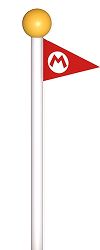
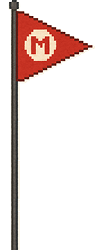
Updated sprites.

Changed region(s): [[0.09, 0.0, 1.0, 1.0]]

diff --git a/scripts/enemies.js b/scripts/enemies.js
@@ -3,10 +3,10 @@ import { Block, marioDeath } from "./block.js";
 let Goombas = [];
 
 export class Goomba extends Block {
-    constructor(position, game) {
+    constructor(position, game, direction) {
         super(position, game);
         this.type = 'goomba';
-        this.direction = 'Right';
+        this.direction =  direction;
         this.image = document.getElementById('mario-goomba-left');
         this.speed = 0.005;
         this.status = true;
@@ -28,7 +28,7 @@ export class Goomba extends Block {
 
         const availableBlocks = this.game.Walls;
         availableBlocks.forEach((wall) => {
-            if (!wall.detectCollision(this)) {
+            if (!wall.detectCollision(this) && this.x <= 1500) {
                 this.x += this.direction === 'Left' ? -this.speed : this.speed;
             }
             else {
@@ -75,14 +75,14 @@ export class Goomba extends Block {
 }
 
 export function getGoombas(game) {
-    Goombas.push(new Goomba({ x: game.player.width * 8, y: game.height - game.grassHeight - game.BLOCK_SIZE }, game));
-    Goombas.push(new Goomba({ x: game.player.width * 16, y: game.height - game.grassHeight - game.BLOCK_SIZE }, game));
-    Goombas.push(new Goomba({ x: game.player.width * 28, y: game.height - game.grassHeight - game.BLOCK_SIZE }, game));
-    Goombas.push(new Goomba({ x: game.player.width * 36, y: game.height - game.grassHeight - game.BLOCK_SIZE }, game));
-    Goombas.push(new Goomba({ x: game.player.width * 44, y: game.height - game.grassHeight - game.BLOCK_SIZE }, game));
-    Goombas.push(new Goomba({ x: game.player.width * 66, y: game.height - game.grassHeight - game.BLOCK_SIZE }, game));
-    Goombas.push(new Goomba({ x: game.player.width * 100, y: game.height - game.grassHeight - game.BLOCK_SIZE }, game));
-    Goombas.push(new Goomba({ x: game.player.width * 105, y: game.height - game.grassHeight - game.BLOCK_SIZE }, game));
+    Goombas.push(new Goomba({ x: game.player.width * 8, y: game.height - game.grassHeight - game.BLOCK_SIZE }, game, 'Left'));
+    Goombas.push(new Goomba({ x: game.player.width * 22, y: game.height - game.grassHeight - game.BLOCK_SIZE }, game, 'Right'));
+    Goombas.push(new Goomba({ x: game.player.width * 30, y: game.height - game.grassHeight - game.BLOCK_SIZE }, game, 'Right'));
+    Goombas.push(new Goomba({ x: game.player.width * 38, y: game.height - game.grassHeight - game.BLOCK_SIZE }, game, 'Right'));
+    Goombas.push(new Goomba({ x: game.player.width * 46, y: game.height - game.grassHeight - game.BLOCK_SIZE }, game, 'Right'));
+    Goombas.push(new Goomba({ x: game.player.width * 70, y: game.height - game.grassHeight - game.BLOCK_SIZE }, game, 'Left'));
+    Goombas.push(new Goomba({ x: game.player.width * 100, y: game.height - game.grassHeight - game.BLOCK_SIZE }, game, 'Left'));
+    Goombas.push(new Goomba({ x: game.player.width * 105, y: game.height - game.grassHeight - game.BLOCK_SIZE }, game, 'Left'));
 
 
 

diff --git a/scripts/block.js b/scripts/block.js
@@ -345,7 +345,7 @@ export function initalizeWalls(player, game) {
     createBlockStack(game, 6);
 
     Walls.push(new TubeBlock({ x: Walls[Walls.length - 1].x + Walls[Walls.length - 1].width * 7, y: game.height - game.grassHeight - game.BLOCK_SIZE * 2 }, game, 'Top'));
-    const flagOBJ = new Flag({ x: Walls[Walls.length - 1].x + 10, y: game.height - game.grassHeight - game.BLOCK_SIZE * 2 - (game.BLOCK_SIZE * 5) }, game);
+    const flagOBJ = new Flag({ x: Walls[Walls.length - 1].x + game.BLOCK_SIZE / 2 + 10, y: game.height - game.grassHeight - game.BLOCK_SIZE * 2 - (game.BLOCK_SIZE * 5) }, game);
     Walls.push(flagOBJ);
     flag = flagOBJ;
 

diff --git a/scripts/game.js b/scripts/game.js
@@ -142,7 +142,7 @@ window.addEventListener('load', () => {
                 if (this.winImage === this.marioClimb1) this.winImage = this.marioClimb2
                 else this.winImage = this.marioClimb1
             }
-            context.drawImage(this.winImage, this.Flag.x + 15, this.winY, 50, 75);
+            context.drawImage(this.winImage, this.Flag.x - 4 , this.winY, 50, 75);
         }
 
         gameDrawScore(context) {
